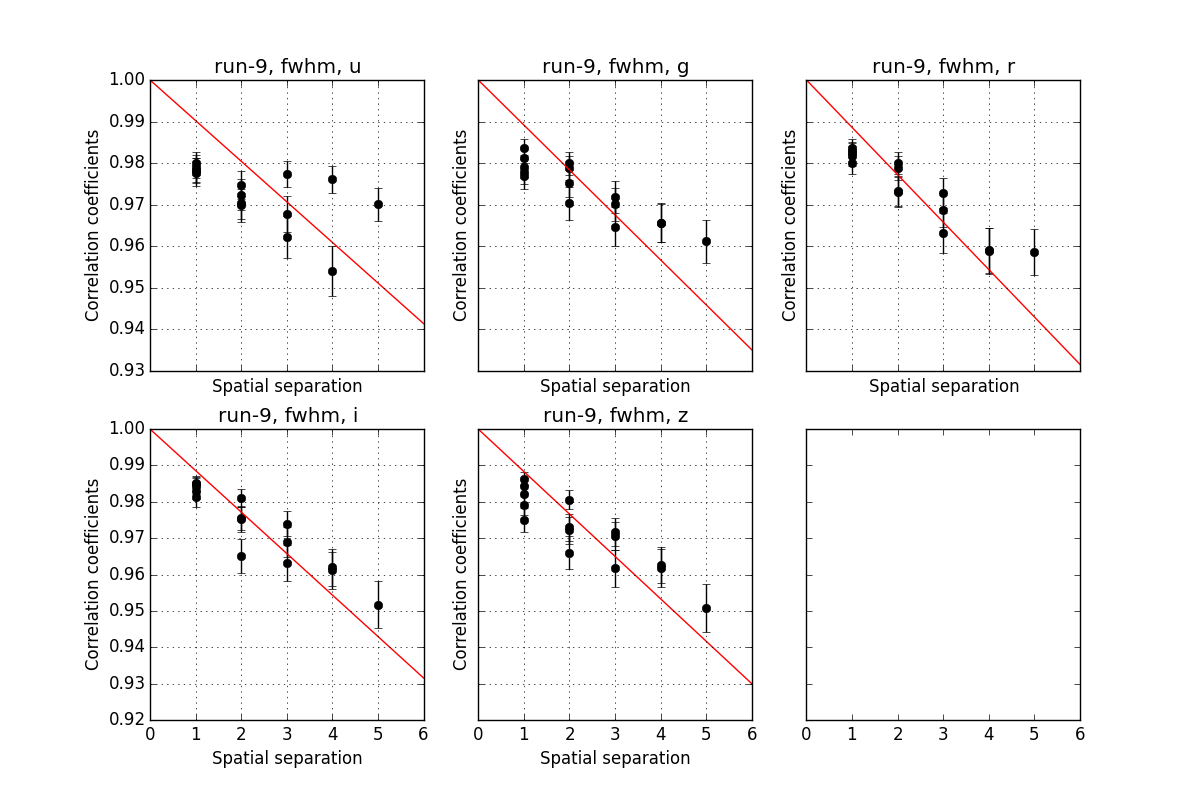
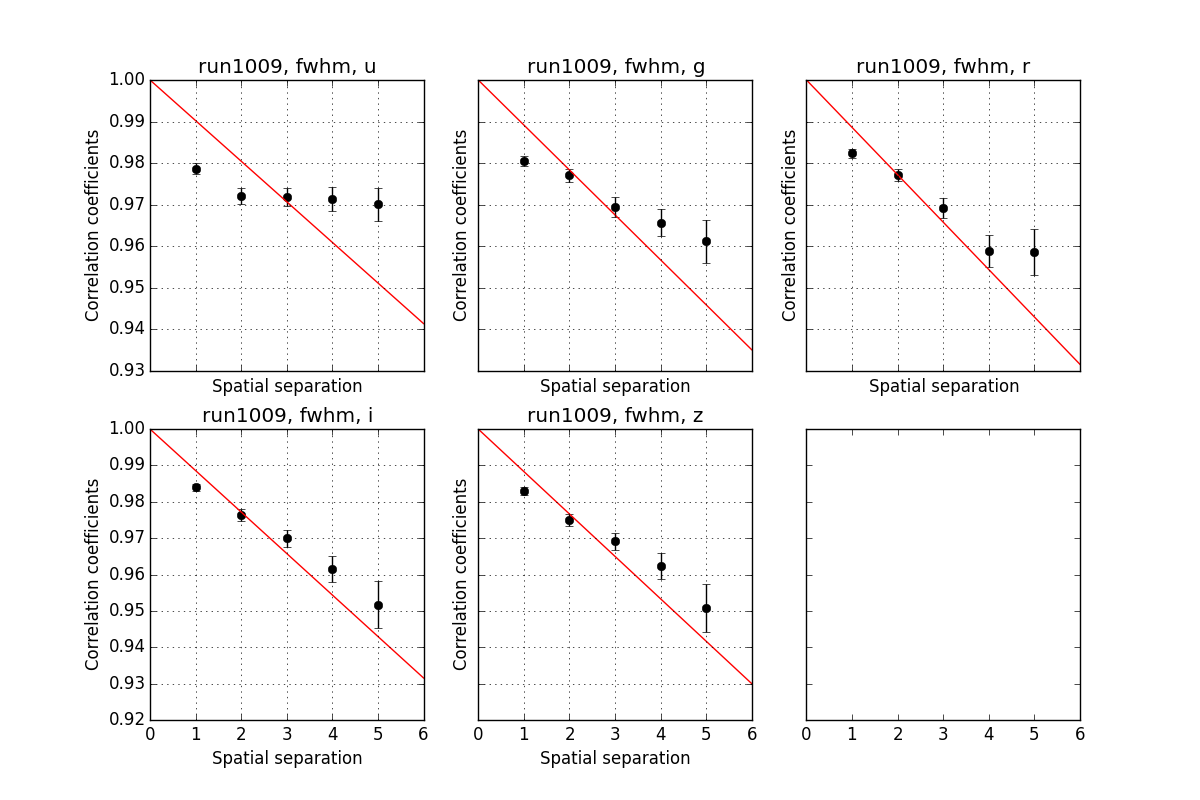
get (alpha, beta, tau) for every run

diff --git a/analysis/source/correlate_spatial.py b/analysis/source/correlate_spatial.py
@@ -86,26 +86,35 @@ def main():
                 fwhmArray[:, camcol-1] = fwhm[idx]
             #myCovSquare=np.cov(fwhmArray, rowvar=0)
             myCorrCoef=np.corrcoef(fwhmArray, rowvar=0)
-            myCov = np.zeros(15) #15 = 1+2+3+4+5
+            myCor = np.zeros(15) #15 = 1+2+3+4+5
             mySep = np.zeros(15)
             myErr = np.zeros(15)
             i = 0
             for iCamcol in range(1, sdss.nCamcol + 1):
                 for jCamcol in range(iCamcol+1, sdss.nCamcol + 1):
-                    myCov[i] = myCorrCoef[iCamcol-1, jCamcol-1]
+                    myCor[i] = myCorrCoef[iCamcol-1, jCamcol-1]
                     mySep[i] = jCamcol - iCamcol
                     # https://www.mathworks.com/matlabcentral/newsreader/view_thread/107045
-                    myErr[i] = (1-myCov[i]**2)/np.sqrt(nfields-1)
+                    myErr[i] = (1-myCor[i]**2)/np.sqrt(nfields-1)
                     i += 1
 
-            popt, pcov = optimize.curve_fit(func, mySep, myCov, p0=[-0.005],
+            popt, pcov = optimize.curve_fit(func, mySep, myCor, p0=[-0.005],
                 sigma=myErr, absolute_sigma=True)
             myX = np.linspace(0, sdss.nCamcol, 100)
             myY = func(myX, popt[0])
             if args.writefitp:
                 fid.write('%d\t %d\t %6.4f \n'%(run, iBand, popt[0]))
                 
-            ax1[iRow, iCol].errorbar(mySep, myCov, myErr, fmt = 'ok') #,markersize=15)
+            wSep = np.zeros(sdss.nCamcol-1)
+            wCor = np.zeros(sdss.nCamcol-1)
+            wErr = np.zeros(sdss.nCamcol-1)
+            for iSep in range(1, sdss.nCamcol):
+                myidx = mySep == iSep
+                wSep[iSep-1] = iSep
+                wCor[iSep-1] = sum(myCor[myidx]/myErr[myidx]**2)/sum(1/myErr[myidx]**2)
+                wErr[iSep-1] = np.sqrt(1/sum(1/myErr[myidx]**2))
+            
+            ax1[iRow, iCol].errorbar(wSep, wCor, wErr, fmt = 'ok') #,markersize=15)
             ax1[iRow, iCol].plot(myX, myY, '-r')
             ax1[iRow, iCol].set_xlim(0, sdss.nCamcol)
             ax1[iRow, iCol].set_title('run%d, %s, %s' %

diff --git a/analysis/source/correlate_temporal.py b/analysis/source/correlate_temporal.py
@@ -141,20 +141,21 @@ def main():
                     f = f[cutoff]
                     PSD = PSD[cutoff]
                     popt, pcov = optimize.curve_fit(logpsdfunc, f, np.log10(PSD), p0=[1e5, 1e-3],
-                                                        bounds = ([1e4, 1e-4], [1e7, 1e-2]),)
+                                                        bounds = ([1, 1e-4], [1e7, 1e-2]),)
                     # sigma=myErr, absolute_sigma=True)
                     tau = 1/(2*np.pi*popt[1])
                     # print('A=%e, f0=%e, tau = %5.0f s' %(popt[0], popt[1], tau))
                     if args.writefitp:
                         fid.write('%d\t %d\t %d\t %e\t %e\t %6.1f \n'%(run, band, camcol, popt[0], popt[1], tau))
-                    
-                    myY = 10**logpsdfunc(f, popt[0], popt[1])
-                    ax1[iRow, iCol].loglog(f, PSD, '.-')#, c='#AAAAAA')
+
+                    myX = np.hstack((f[0]/2, f, f[-1]*2))
+                    myY = 10**logpsdfunc(myX, popt[0], popt[1])
+                    ax1[iRow, iCol].loglog(f, PSD, linestyle = 'None', marker='.', color='k', markersize=10)#, c='#AAAAAA')
                     # ax1[iRow, iCol].loglog(fW1, PSDW1,'-k')
                     # ax1[iRow, iCol].loglog(fW2, PSDW2,'-r')
-                    ax1[iRow, iCol].loglog(f, myY, 'r-')
+                    ax1[iRow, iCol].loglog(myX, myY, 'r-')
                     
-                    ax1[iRow, iCol].set_xlim(min(f), max(f))
+                    ax1[iRow, iCol].set_xlim(min(myX), max(myX))
                     ax1[iRow, iCol].set_xlabel('Frequency (Hz)')
                     ax1[iRow, iCol].set_ylabel('PSD (arcsec$^2$ second)')
                     

diff --git a/analysis/source/fwhm_lambda.py b/analysis/source/fwhm_lambda.py
@@ -118,6 +118,8 @@ def main():
             idx = (idxm == camcol) 
             if args.ugri == 1:
                 idx = idx & (txtdata[:, 2] != 4)  # remove z band data
+                sdss.nBand = 4
+                sdss.Leff = sdss.Leff[:4]
             fwhmfit = fwhm[idx]
             Leffnparray = np.array(sdss.Leff)
             Lefffit = Leffnparray[np.uint8(txtdata[idx, 2])]
@@ -145,10 +147,10 @@ def main():
             fwhmt = np.zeros(sdss.nBand)
             fwhmerr = np.zeros(sdss.nBand)
             for iBand in range(sdss.nBand):
-                idx = (Lefffit == sdss.Leff[iBand])
-                aa = fwhm[(idxm == camcol)]
-                fwhmt[iBand] = np.mean(aa[idx])
-                fwhmerr[iBand] = np.std(aa[idx])
+                idxx = (Lefffit == sdss.Leff[iBand])
+                aa = fwhm[idx]
+                fwhmt[iBand] = np.mean(aa[idxx])
+                fwhmerr[iBand] = np.std(aa[idxx])
             ax1[iRow, iCol].errorbar(sdss.Leff, fwhmt, fwhmerr, fmt='ok')
             ax1[iRow, iCol].grid()
             ax1[iRow, iCol].set_title('camcol=%d' % camcol)

diff --git a/sdsspsf.tex b/sdsspsf.tex
@@ -269,7 +269,7 @@ structure function (that is, the covariance vs. angular distance).
 \begin{figure}
 \centering
 \includegraphics[width=0.9\textwidth]{FIGURES/spatial.png}
-\caption{spatial correlation for run 1009. (plot title wrong)
+\caption{spatial correlation for run 1009. 
 \label{fig:fwhm_lambda}}
 \end{figure}
 
@@ -294,7 +294,7 @@ Study the temporal power spectrum:
 \begin{figure}
 \centering
 \includegraphics[width=0.9\textwidth]{FIGURES/temporal.png}
-\caption{spatial correlation for run 1009. (plot title wrong). Average
+\caption{spatial correlation for run 1752. Average
   $f_0 = 5.1\times 10^{-4} Hz$, Average $\tau = 314 sec.$ 
 \label{fig:psd}}
 \end{figure}
